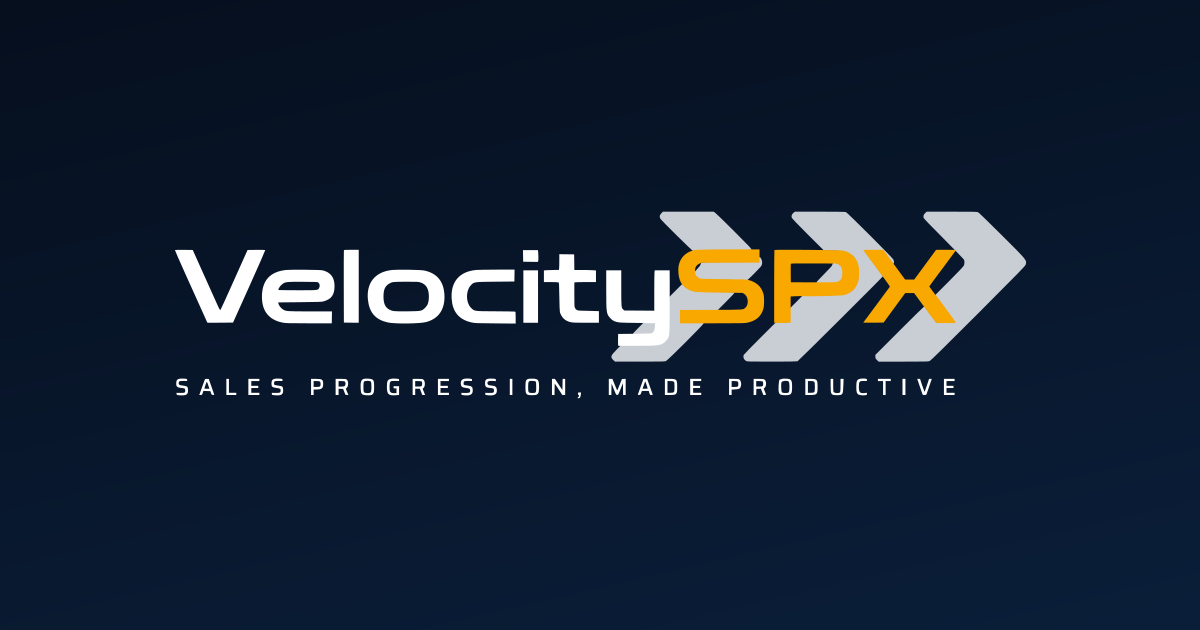
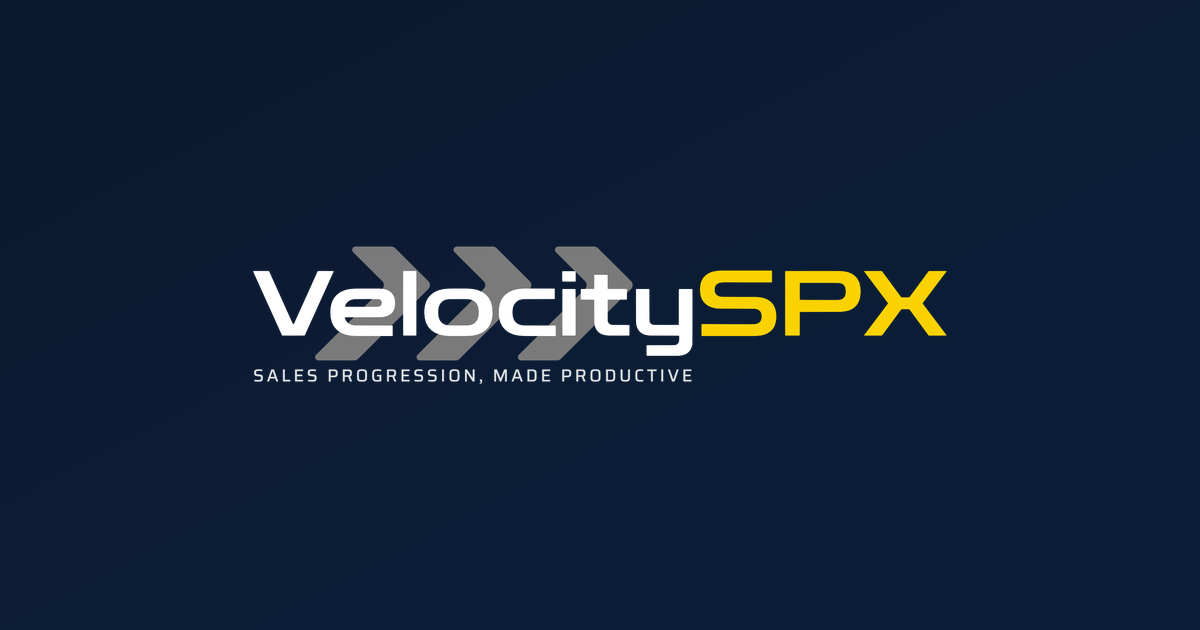
Align website to final VelocitySPX brand: accent yellow -> #FAD201
- Recolour --gold #F9A800 -> #FAD201, --gold-lit #FFC133 -> #FFE24D, rgba gold accents
- Refresh favicon.svg (kit favicon), icon-180 (kit), og-card (new lockup + yellow)
- Chevron geometry + resilience architecture unchanged; noindex retained

Changed region(s): [[0.1233, 0.3317, 0.8633, 0.6333]]

diff --git a/index.html b/index.html
@@ -26,7 +26,7 @@
 @font-face{font-family:'Inter';src:url('assets/fonts/inter-latin-600-normal.woff2') format('woff2');font-weight:600;font-display:swap}
 
 :root{
-  --navy:#0B1F3A; --ink:#060F1E; --gold:#F9A800; --gold-lit:#FFC133; --gold-deep:#906100;
+  --navy:#0B1F3A; --ink:#060F1E; --gold:#FAD201; --gold-lit:#FFE24D; --gold-deep:#906100;
   --mist:#8FA3BF; --line-dark:#1B3054; --paper:#F7F8FA; --chev:#C9CED4;
   --display:'Sora',ui-sans-serif,system-ui,sans-serif;
   --brand:'Zen Dots','Sora',ui-sans-serif,system-ui,sans-serif;
@@ -78,7 +78,7 @@ h1{font-family:var(--brand);font-weight:400;letter-spacing:.005em;line-height:1.
 .btn{display:inline-flex;align-items:center;gap:9px;font-family:var(--display);font-weight:600;font-size:14px;
   padding:12px 24px;border-radius:999px;background:var(--gold);color:var(--ink);white-space:nowrap;border:0;cursor:pointer;
   transition:transform .25s cubic-bezier(.22,.9,.24,1),box-shadow .25s,background .25s}
-.btn:hover{transform:translateY(-2px);box-shadow:0 10px 30px rgba(249,168,0,.3);background:var(--gold-lit)}
+.btn:hover{transform:translateY(-2px);box-shadow:0 10px 30px rgba(250,210,1,.3);background:var(--gold-lit)}
 .btn.ghost{background:transparent;color:#fff;box-shadow:inset 0 0 0 1px rgba(143,163,191,.42)}
 .btn.ghost:hover{background:rgba(255,255,255,.06);box-shadow:inset 0 0 0 1px var(--gold)}
 .hdr-r{display:flex;align-items:center;gap:12px}
@@ -149,7 +149,7 @@ h1{font-family:var(--brand);font-weight:400;letter-spacing:.005em;line-height:1.
   background:linear-gradient(180deg,transparent 0,var(--gold) 55%,var(--gold));transform:scaleY(0);z-index:3}
 /* the screen glows like the only lit thing in the room */
 .appframe:before{content:"";position:absolute;inset:-16% -12%;z-index:-1;pointer-events:none;
-  background:radial-gradient(58% 62% at 50% 40%,rgba(249,168,0,.18) 0%,rgba(249,168,0,.06) 45%,transparent 72%)}
+  background:radial-gradient(58% 62% at 50% 40%,rgba(250,210,1,.18) 0%,rgba(250,210,1,.06) 45%,transparent 72%)}
 /* zero-state payoff */
 .af-zero{position:absolute;inset:48px 0 0;display:grid;place-items:center;z-index:5;opacity:0;pointer-events:none;
   background:linear-gradient(180deg,rgba(247,248,250,.92),rgba(247,248,250,.97))}
@@ -171,7 +171,7 @@ h1{font-family:var(--brand);font-weight:400;letter-spacing:.005em;line-height:1.
 .af-rail{grid-area:rail;display:grid;align-content:start;gap:2px;padding:14px 10px;
   box-shadow:inset -1px 0 0 #E3E8EF}
 .af-rail i{font-style:normal;font-size:13px;color:#68788C;padding:9px 12px;border-radius:8px}
-.af-rail i.on{background:rgba(249,168,0,.14);color:var(--gold-deep);font-weight:600}
+.af-rail i.on{background:rgba(250,210,1,.14);color:var(--gold-deep);font-weight:600}
 .cards{grid-area:body;padding:16px;display:grid;gap:10px}
 .card{display:flex;align-items:center;gap:18px;padding:20px 24px;border-radius:12px;position:relative;overflow:hidden;
   background:#FBFCFE;box-shadow:inset 0 0 0 1px #E3E8EF}
@@ -183,8 +183,8 @@ h1{font-family:var(--brand);font-weight:400;letter-spacing:.005em;line-height:1.
 .card .s{font-size:14px;line-height:1.45;color:#68788C;margin-top:6px}
 .card .st{font-size:11.5px;letter-spacing:.16em;text-transform:uppercase;color:#B3413A;
   font-family:var(--display);font-weight:600;flex:none}
-.card.done{background:#FFF8E6;box-shadow:inset 0 0 0 1px rgba(249,168,0,.6),0 12px 40px rgba(249,168,0,.12)}
-.card.done .dot{background:var(--gold);box-shadow:0 0 14px rgba(249,168,0,.75)}
+.card.done{background:#FFF8E6;box-shadow:inset 0 0 0 1px rgba(250,210,1,.6),0 12px 40px rgba(250,210,1,.12)}
+.card.done .dot{background:var(--gold);box-shadow:0 0 14px rgba(250,210,1,.75)}
 .card.done .st{color:var(--gold-deep)}
 .card.done .t{color:var(--navy)}
 @media(max-width:820px){.appframe{grid-template-columns:1fr;grid-template-areas:"bar" "body"}.af-rail{display:none}}
@@ -216,7 +216,7 @@ h1{font-family:var(--brand);font-weight:400;letter-spacing:.005em;line-height:1.
 .chainline{position:absolute;left:-4%;right:-4%;top:78%;transform:translateY(-50%);z-index:2}
 .chainline svg{width:100%;height:auto}
 .chainkey{position:absolute;left:50%;top:50%;width:36vw;height:26vh;transform:translate(-50%,-50%);
-  background:radial-gradient(closest-side,rgba(249,168,0,.2),transparent 72%);pointer-events:none}
+  background:radial-gradient(closest-side,rgba(250,210,1,.2),transparent 72%);pointer-events:none}
 #intact .cap{transform:translateY(-13vh);max-width:1240px}
 #intact .cap:before{content:"";position:absolute;inset:-14% -18%;z-index:-1;
   background:radial-gradient(60% 55% at 50% 48%,rgba(247,248,250,.94) 0%,rgba(247,248,250,.66) 55%,transparent 80%)}
@@ -228,7 +228,7 @@ h1{font-family:var(--brand);font-weight:400;letter-spacing:.005em;line-height:1.
   background:linear-gradient(180deg,var(--gold),transparent);transform:scaleY(0);pointer-events:none}
 .sec.light{background:linear-gradient(180deg,#FFFFFF 0%,#F2F5FA 48%,#FFFFFF 100%);position:relative;overflow:hidden}
 .sec.light:before{content:"";position:absolute;inset:0;pointer-events:none;
-  background:radial-gradient(60% 50% at 78% 18%,rgba(249,168,0,.1) 0%,transparent 70%)}
+  background:radial-gradient(60% 50% at 78% 18%,rgba(250,210,1,.1) 0%,transparent 70%)}
 .sec.navy{background:#FFFFFF;position:relative;overflow:hidden}
 .sec-head .h2{margin-top:16px}
 .sec-head p{margin-top:20px;max-width:56ch}
@@ -239,13 +239,13 @@ h1{font-family:var(--brand);font-weight:400;letter-spacing:.005em;line-height:1.
   .sec-head .h2{max-width:none;margin-top:0}
   .sec-head p{margin-top:0;margin-bottom:.35em;max-width:none}
 }
-.derisk{position:relative;border-top:1px solid rgba(249,168,0,.55);padding-top:26px;color:#16283F;margin-bottom:clamp(48px,6vw,80px);
+.derisk{position:relative;border-top:1px solid rgba(250,210,1,.55);padding-top:26px;color:#16283F;margin-bottom:clamp(48px,6vw,80px);
   font-family:var(--display);font-weight:600;font-size:clamp(19px,1.8vw,26px);line-height:1.4;max-width:34ch;letter-spacing:-.02em}
 .derisk b{color:var(--gold-deep);font-weight:600}
 
 .doors{display:grid;grid-template-columns:1fr 1fr;gap:20px;margin-top:clamp(38px,5vw,60px)}
 .lite .door{background:#FBFCFE;box-shadow:inset 0 0 0 1px #E3E8EF,0 14px 40px rgba(11,31,58,.06)}
-.lite .door:hover,.lite .door:focus-within{box-shadow:inset 0 0 0 1px rgba(249,168,0,.6),0 18px 48px rgba(11,31,58,.09);background:#fff}
+.lite .door:hover,.lite .door:focus-within{box-shadow:inset 0 0 0 1px rgba(250,210,1,.6),0 18px 48px rgba(11,31,58,.09);background:#fff}
 .lite .door li{color:#3A4859}
 .lite .door li:before{background:#9FB0C4}
 .lite .door .who{color:#68788C}
@@ -253,7 +253,7 @@ h1{font-family:var(--brand);font-weight:400;letter-spacing:.005em;line-height:1.
 .door{position:relative;border-radius:18px;padding:clamp(30px,3.4vw,52px);
   background:rgba(255,255,255,.035);box-shadow:inset 0 0 0 1px rgba(143,163,191,.2);
   transition:box-shadow .5s,background .5s}
-.door:hover,.door:focus-within{box-shadow:inset 0 0 0 1px rgba(249,168,0,.5);background:rgba(255,255,255,.055)}
+.door:hover,.door:focus-within{box-shadow:inset 0 0 0 1px rgba(250,210,1,.5);background:rgba(255,255,255,.055)}
 .door h3{font-size:clamp(21px,2.1vw,30px);margin:14px 0 16px}
 .door .who{font-size:12px;letter-spacing:.18em;text-transform:uppercase;color:#8FA3BF;font-family:var(--display);font-weight:600}
 .door ul{list-style:none;margin-top:26px;display:grid;gap:13px}
@@ -287,7 +287,7 @@ h1{font-family:var(--brand);font-weight:400;letter-spacing:.005em;line-height:1.
 .pillar .ghost{position:absolute;top:-2%;right:4%;font-family:var(--display);font-weight:700;
   font-size:clamp(120px,11vw,180px);line-height:1;color:rgba(11,31,58,.05);letter-spacing:-.04em;
   pointer-events:none;user-select:none;transition:color .5s ease}
-.pillar.hot .ghost{color:rgba(249,168,0,.16)}
+.pillar.hot .ghost{color:rgba(250,210,1,.16)}
 .pillar p{color:#3A4859;font-size:clamp(15.5px,1.05vw,17.5px);line-height:1.7}
 .prail{position:absolute;left:max(var(--gutter),8vw);right:max(var(--gutter),8vw);bottom:clamp(28px,5vh,60px);
   height:2px;background:rgba(11,31,58,.12)}
@@ -374,7 +374,7 @@ h1{font-family:var(--brand);font-weight:400;letter-spacing:.005em;line-height:1.
 
 .cta{background:radial-gradient(90% 120% at 50% 0%,#12294A 0%,#081729 55%,var(--ink) 100%);text-align:center;position:relative;overflow:hidden}
 .cta:before{content:"";position:absolute;left:50%;top:-40%;width:120vw;height:120vh;transform:translateX(-50%);
-  pointer-events:none;background:radial-gradient(closest-side,rgba(249,168,0,.13),transparent 70%)}
+  pointer-events:none;background:radial-gradient(closest-side,rgba(250,210,1,.13),transparent 70%)}
 .cta:after{content:"";position:absolute;left:50%;top:0;width:1px;height:clamp(90px,14vh,180px);
   background:linear-gradient(180deg,transparent,var(--gold));opacity:.75}
 .cta .wrap{position:relative}
@@ -391,7 +391,7 @@ h1{font-family:var(--brand);font-weight:400;letter-spacing:.005em;line-height:1.
 .cform .full{grid-column:1/-1}
 .cform .btn{width:100%;justify-content:center;padding:16px 24px;font-size:15px}
 #formOk{display:none;margin-top:26px;padding:22px 24px;border-radius:14px;background:rgba(11,31,58,.7);
-  box-shadow:inset 0 0 0 1px rgba(249,168,0,.35);text-align:left}
+  box-shadow:inset 0 0 0 1px rgba(250,210,1,.35);text-align:left}
 #formOk b{display:block;font-family:var(--display);font-weight:600;color:#fff;font-size:16.5px}
 #formOk span{display:block;margin-top:8px;color:#AFC0D6;font-size:14px}
 #formOk pre{margin:14px 0 0;padding:14px 16px;border-radius:10px;background:rgba(6,15,30,.7);color:#D7E1EE;
@@ -441,7 +441,7 @@ h1{font-family:var(--brand);font-weight:400;letter-spacing:.005em;line-height:1.
 .curtain .cvC{animation:chvIn .8s cubic-bezier(.16,1,.3,1) .18s both}
 @keyframes chvIn{from{opacity:0;transform:translateX(-30px)}to{opacity:1;transform:none}}
 .curtain-bar{width:min(200px,42vw);height:1px;background:rgba(143,163,191,.22);overflow:hidden}
-.curtain-bar i{display:block;height:100%;width:0;background:var(--gold);box-shadow:0 0 12px rgba(249,168,0,.7);
+.curtain-bar i{display:block;height:100%;width:0;background:var(--gold);box-shadow:0 0 12px rgba(250,210,1,.7);
   animation:barFill .7s cubic-bezier(.5,0,.3,1) .1s forwards}
 @keyframes barFill{to{width:100%}}
 .curtain-wm{font-family:var(--display);font-size:11px;letter-spacing:.32em;text-transform:uppercase;color:#4E627D;
@@ -473,7 +473,7 @@ html.booting{overflow:hidden}
 main:focus{outline:none}
 
 .prog{position:fixed;top:0;right:0;width:2px;height:100vh;z-index:95;background:rgba(143,163,191,.13)}
-.prog i{display:block;width:100%;height:0;background:linear-gradient(180deg,var(--gold),var(--gold-lit));box-shadow:0 0 18px rgba(249,168,0,.55)}
+.prog i{display:block;width:100%;height:0;background:linear-gradient(180deg,var(--gold),var(--gold-lit));box-shadow:0 0 18px rgba(250,210,1,.55)}
 .chapmark{position:fixed;right:24px;bottom:26px;z-index:95;text-align:right;font-family:var(--display);
   pointer-events:none;opacity:0;transition:opacity .5s}
 .chapmark.on{opacity:1}
@@ -482,7 +482,7 @@ main:focus{outline:none}
 @media(max-width:900px){.chapmark,.prog{display:none}}
 
 .bloom{position:absolute;left:-9999px;top:-9999px;width:46vmax;height:46vmax;border-radius:50%;pointer-events:none;z-index:1;
-  background:radial-gradient(closest-side,rgba(249,168,0,.1),transparent 70%);transform:translate(-50%,-50%);opacity:0;transition:opacity .6s}
+  background:radial-gradient(closest-side,rgba(250,210,1,.1),transparent 70%);transform:translate(-50%,-50%);opacity:0;transition:opacity .6s}
 .ln{display:block}
 .js .ln{overflow:hidden}
 /* Reveal states exist only after JS applies .pre in the same tick it starts
@@ -509,8 +509,8 @@ main:focus{outline:none}
   #chain .cap{text-align:center;padding:0 var(--gutter);max-width:100%}
   .chainline{position:relative;top:auto;transform:none;margin-top:40px}
   #intact .cap{transform:none}
-  .card{background:#FFF8E6;box-shadow:inset 0 0 0 1px rgba(249,168,0,.45)}
-  .card .dot{background:var(--gold);box-shadow:0 0 14px rgba(249,168,0,.75)}
+  .card{background:#FFF8E6;box-shadow:inset 0 0 0 1px rgba(250,210,1,.45)}
+  .card .dot{background:var(--gold);box-shadow:0 0 14px rgba(250,210,1,.75)}
   .card .st{color:var(--gold-deep)}
   .hdr-nav,.hdr .btn{opacity:1!important;pointer-events:auto!important}
   *{scroll-behavior:auto!important}
@@ -529,7 +529,7 @@ main:focus{outline:none}
     <svg viewBox="0 0 168 120" aria-hidden="true">
 <g class="cvA"><use href="#chv" x="0" stroke="#8FA3BF"/></g>
 <g class="cvB"><use href="#chv" x="34" stroke="#C9CED4"/></g>
-<g class="cvC"><use href="#chv" x="68" stroke="#F9A800"/></g>
+<g class="cvC"><use href="#chv" x="68" stroke="#FAD201"/></g>
 </svg>
     <div class="curtain-bar"><i id="curtainBar"></i></div>
     <div class="curtain-wm" id="curtainWm">Sales progression, made productive</div>
@@ -542,7 +542,7 @@ main:focus{outline:none}
 <header class="hdr" id="hdr">
   <div class="wrap">
     <a class="hdr-l" href="#top" aria-label="VelocitySPX home">
-      <svg viewBox="0 0 168 120" aria-hidden="true"><use href="#chv" x="0" stroke="#8FA3BF"/><use href="#chv" x="34" stroke="#C9CED4"/><use href="#chv" x="68" stroke="#F9A800"/></svg>
+      <svg viewBox="0 0 168 120" aria-hidden="true"><use href="#chv" x="0" stroke="#8FA3BF"/><use href="#chv" x="34" stroke="#C9CED4"/><use href="#chv" x="68" stroke="#FAD201"/></svg>
       <span class="hdr-word">Velocity<i>SPX</i></span>
     </a>
     <nav class="hdr-nav">
@@ -571,7 +571,7 @@ main:focus{outline:none}
           <svg viewBox="0 0 168 120" aria-hidden="true">
 <g class="mA"><use href="#chv" x="0" stroke="#8FA3BF"/></g>
 <g class="mB"><use href="#chv" x="34" stroke="#C9CED4"/></g>
-<g class="mC"><use href="#chv" x="68" stroke="#F9A800"/></g>
+<g class="mC"><use href="#chv" x="68" stroke="#FAD201"/></g>
 </svg>
         </div>
         <h1 class="hero-h" id="heroH">Every sale,<br>moved forward.</h1>
@@ -605,7 +605,7 @@ main:focus{outline:none}
     <div class="layer">
       <div class="cap rv">
         <span class="eyebrow">Chapter two</span>
-        <h2>A chain doesn&rsquo;t<br>break loudly.<br><em style="font-style:normal;color:#F9A800">It goes quiet.</em></h2>
+        <h2>A chain doesn&rsquo;t<br>break loudly.<br><em style="font-style:normal;color:#FAD201">It goes quiet.</em></h2>
         <p>Nobody decides to lose a sale. An enquiry sits unanswered. A mortgage offer quietly runs out of road. Someone assumed someone else had chased it. By the time it&rsquo;s obvious, it&rsquo;s gone.</p>
       </div>
     </div>
@@ -626,7 +626,7 @@ main:focus{outline:none}
             <span>Action Required &middot; 0 &mdash; the state this screen exists to reach.</span>
           </div></div>
           <div class="af-bar">
-            <svg viewBox="0 0 168 120" aria-hidden="true"><use href="#chv" x="0" stroke="#9FB0C4"/><use href="#chv" x="34" stroke="#6E8199"/><use href="#chv" x="68" stroke="#F9A800"/></svg>
+            <svg viewBox="0 0 168 120" aria-hidden="true"><use href="#chv" x="0" stroke="#9FB0C4"/><use href="#chv" x="34" stroke="#6E8199"/><use href="#chv" x="68" stroke="#FAD201"/></svg>
             <span class="af-t">Action Required</span>
             <span class="af-count" id="afCount">5</span>
             <span class="af-when">Thursday &middot; 08:40</span>
@@ -661,7 +661,7 @@ main:focus{outline:none}
             <stop offset="1" stop-color="#fff" stop-opacity="0"/>
           </linearGradient>
           <linearGradient id="lg" x1="0" y1="0" x2="0" y2="1">
-            <stop offset="0" stop-color="#FFD34D"/><stop offset=".55" stop-color="#F9A800"/>
+            <stop offset="0" stop-color="#FFD34D"/><stop offset=".55" stop-color="#FAD201"/>
             <stop offset="1" stop-color="#8A5F00"/>
           </linearGradient>
           <linearGradient id="eg" x1="0" x2="1">
@@ -828,7 +828,7 @@ main:focus{outline:none}
     <div class="ft-top">
       <div class="ft-l">
         <div class="hdr-l">
-          <svg viewBox="0 0 168 120" style="width:36px;height:26px" aria-hidden="true"><use href="#chv" x="0" stroke="#8FA3BF"/><use href="#chv" x="34" stroke="#C9CED4"/><use href="#chv" x="68" stroke="#F9A800"/></svg>
+          <svg viewBox="0 0 168 120" style="width:36px;height:26px" aria-hidden="true"><use href="#chv" x="0" stroke="#8FA3BF"/><use href="#chv" x="34" stroke="#C9CED4"/><use href="#chv" x="68" stroke="#FAD201"/></svg>
           <span class="hdr-word">Velocity<i>SPX</i></span>
         </div>
         <p>Sales progression software for estate agencies that run it in-house. Built and used by Momentum Sales Progression.</p>
@@ -888,7 +888,7 @@ main:focus{outline:none}
       const x = 120 + t*1330;
       const y1 = (cy - h/2).toFixed(1), y2 = (cy + h/2).toFixed(1);
       const d = 'M'+(x-seg/2).toFixed(1)+' '+y1+' L'+(x+seg/2).toFixed(1)+' '+cy+' L'+(x-seg/2).toFixed(1)+' '+y2;
-      const col = t<.32 ? '#C4CEDA' : t<.66 ? '#9FB0C4' : t<.94 ? '#6E8199' : '#F9A800';
+      const col = t<.32 ? '#C4CEDA' : t<.66 ? '#9FB0C4' : t<.94 ? '#6E8199' : '#FAD201';
       const per = (2*Math.hypot(seg, h/2)).toFixed(0);
       const sw = (17*sc).toFixed(1);
       out   += '<path d="'+d+'" stroke="'+col+'" stroke-width="'+sw+'" stroke-linecap="round" stroke-linejoin="round" stroke-dasharray="'+per+'" data-per="'+per+'" opacity="'+(0.45+0.55*t).toFixed(2)+'"/>';
